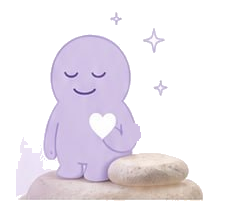
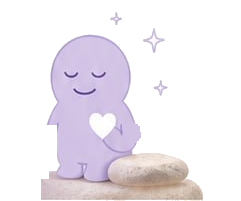
Remove Lumi stone artifact and shift mobile quote.
Mask stepped source remnant left of mascot; move caption left and lower on mobile.

Changed region(s): [[0.0581, 0.597, 0.2614, 1.0]]

diff --git a/public/landing.css b/public/landing.css
@@ -949,7 +949,7 @@ a { color: inherit; text-decoration: none; }
   }
   .lumi-accent__quote-block {
     align-self: flex-start;
-    transform: translateY(0.85rem);
+    transform: translate(-0.65rem, 1.1rem);
     max-width: 10rem;
     flex: 1 1 0;
   }
